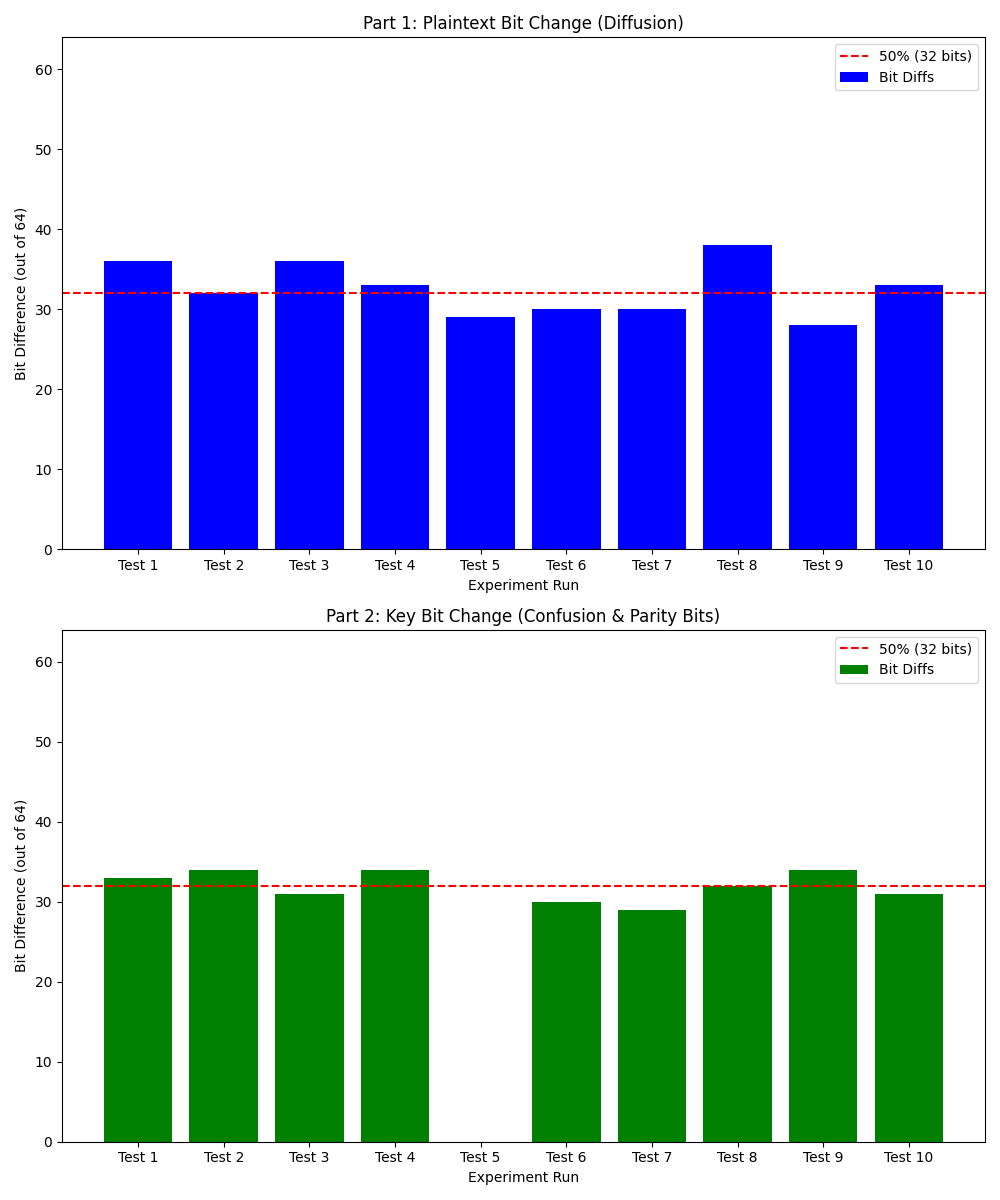
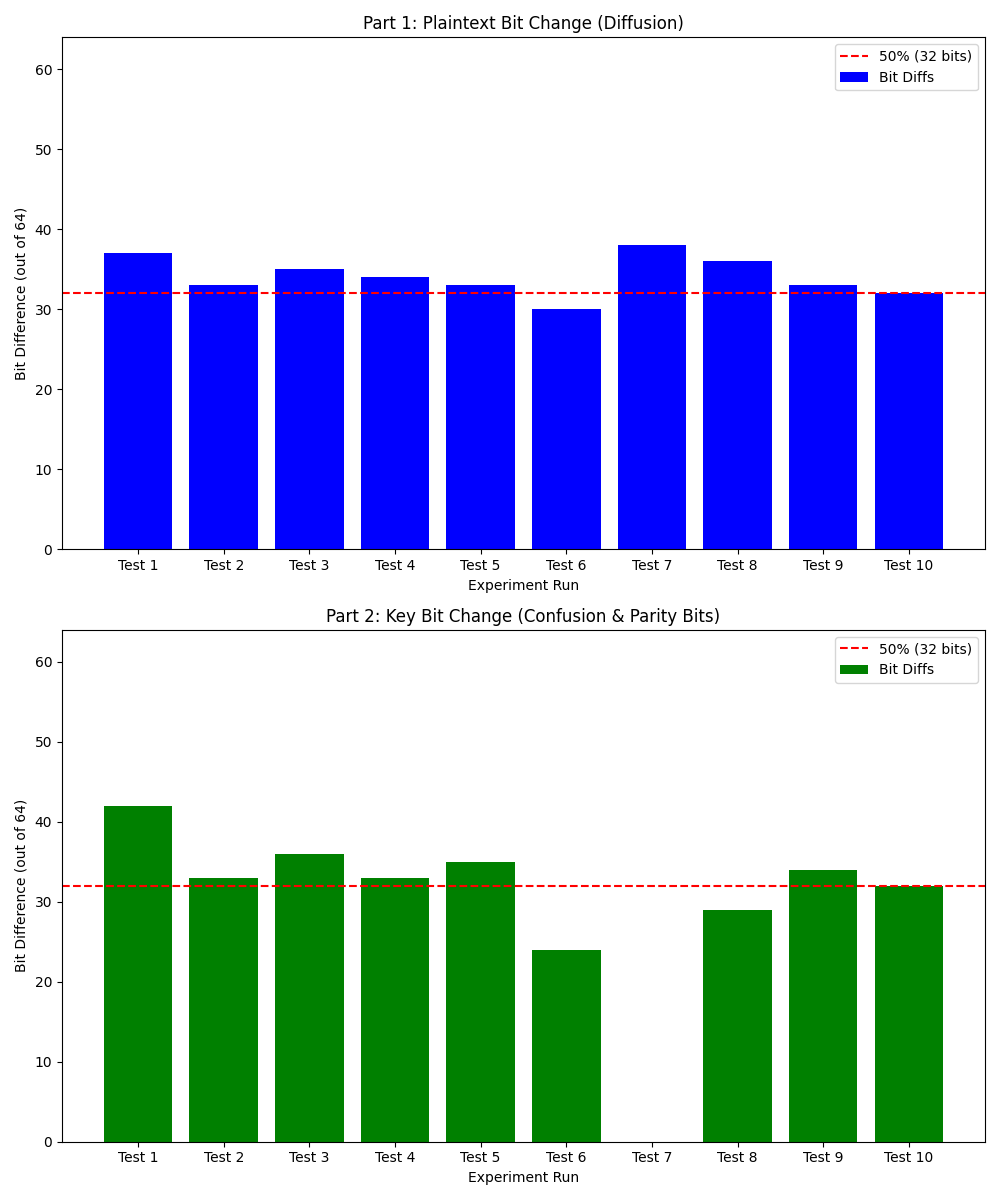
Update README

diff --git a/README.md b/README.md
@@ -1,3 +1,35 @@
 # Cryptography
 ## DES Analysis
+
+## Part 1: Avalanche Effect on Plaintext (Diffusion) ---
+- Test ............ Flipped Bit Pos .........New Ciphertext (hex) ......... Bit Difference
+- Test 2  ...................... 31 ........... 5edc8ef2d1b231a2 ...................... 33
+- Test 3  ...................... 39 ........... 87f884ee7f73403e ...................... 35
+- Test 1  ...................... 19 ........... 0c9f4d7c435a0dee ...................... 37
+- Test 4  ......................  7 ........... 94da1732d57482d8 ...................... 34
+- Test 5  ...................... 59 ........... ed57d110997f104f ...................... 33
+- Test 6  ...................... 11 ........... e4c17cf4860db0d4 ...................... 30
+- Test 7  ...................... 63 ........... db0b21e37ba449b8 ...................... 38
+- Test 8  ...................... 36 ........... 45e4e98220ab2a6b ...................... 36
+- Test 9  ...................... 34 ........... c0bfe801846fa89a ...................... 33
+- Test 10 ...................... 58 ........... 4db25ab79298649e ...................... 32
+------------------------------------------------------------
+
+## Part 2: Avalanche Effect on Key (Confusion) ---
+- Test .............Flipped Bit Pos .........New Ciphertext (hex) ......... Bit Difference
+- Test 1  ...................... 29 ........... 604eac3a49a27576 ...................... 42
+- Test 2  ...................... 20 ........... b950dccbbb668433 ...................... 33
+- Test 3  ...................... 33 ........... 880efcda13155d37 ...................... 36
+- Test 4  ...................... 41 ........... 7eb8f0cb8262d876 ...................... 33
+- Test 5  ...................... 36 ........... 7ec3813c842c1106 ...................... 35
+- Test 6  ......................  1 ........... addf3a41fc2e26ec ...................... 24
+- Test 7  ......................  0 ........... fe841e45bc79fead ......................  0
+- Test 8  ...................... 26 ........... 77a5cef6340009a1 ...................... 29
+- Test 9  ...................... 61 ........... adc7753e24934c0e ...................... 34
+- Test 10 ...................... 59 ........... 15b24af91854268e ...................... 32
+------------------------------------------------------------
+
+## Part 3: Generating Charts ---
+### Charts successfully saved to 'des_avalanche_analysis.png'
+### Experiment complete.
 ![نمودار مقایسه ی تغییر یک بیت متن و کلید ](des_avalanche_analysis.png)
